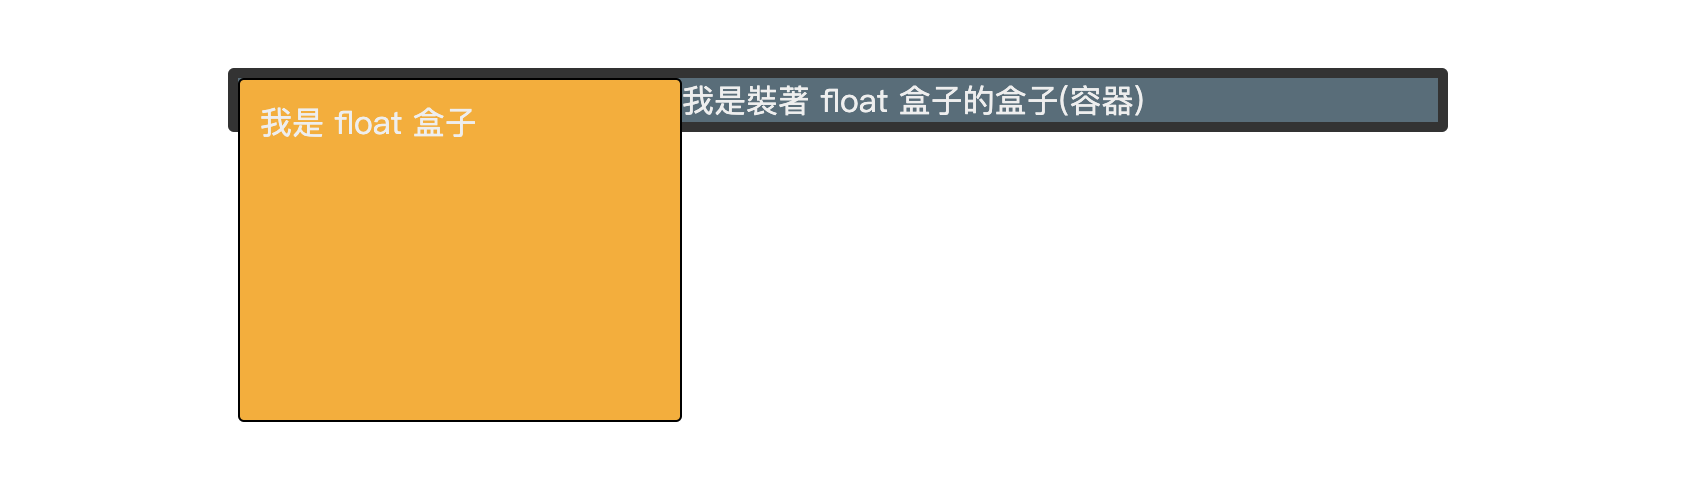
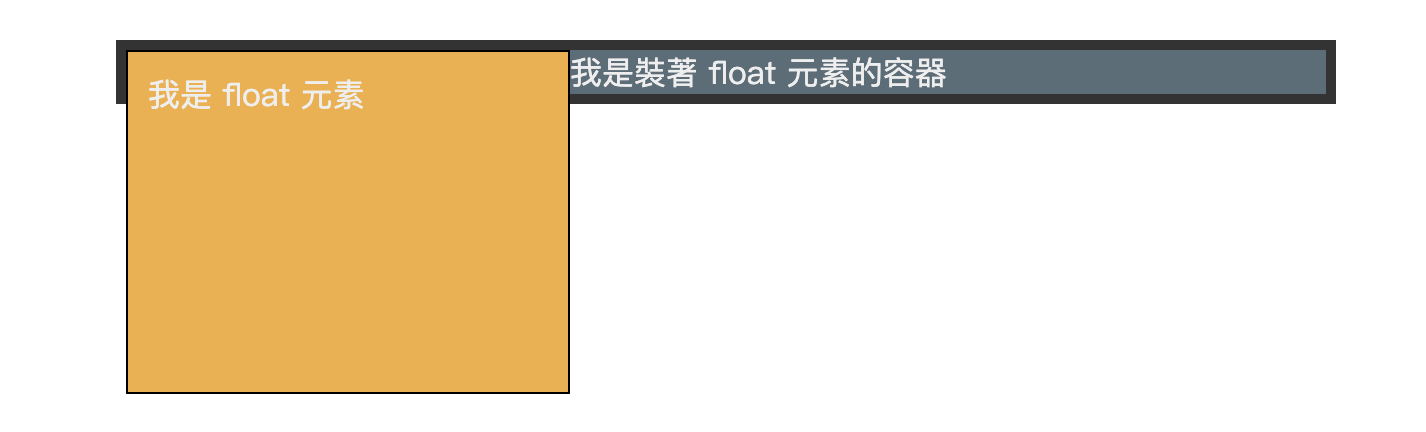
Site updated: 2020-03-15 02:34:12

Changed region(s): [[0.0617, 0.0903, 0.9565, 0.9329]]

diff --git a/article/Block-formatting-context.html b/article/Block-formatting-context.html
@@ -31,7 +31,7 @@
 <meta property="og:description" content="或許你沒聽過 Block Formatting Context，但你肯定有用過！其實在切版時，常常會使用到 BFC，只是你沒有意識到而已，如果能夠有意識的使用 BFC，對於版面的掌控非常有幫助。">
 <meta property="og:image" content="https://i.imgur.com/qmupIlt.png">
 <meta property="article:published_time" content="2020-03-12T08:35:37.000Z">
-<meta property="article:modified_time" content="2020-03-14T18:18:50.433Z">
+<meta property="article:modified_time" content="2020-03-14T18:30:45.793Z">
 <meta property="article:author" content="yachen">
 <meta property="article:tag" content="CSS">
 <meta property="article:tag" content="w3HexSchool">
@@ -170,7 +170,7 @@
                 <span class="level-item has-text-grey">
                     
                     
-                    9 minutes read (About 1309 words)
+                    9 minutes read (About 1307 words)
                 </span>
                 
                 
@@ -259,7 +259,7 @@
 <br>
 <h3 id="解決-float-元素造成外容器塌陷問題"><a class="header-anchor" href="#解決-float-元素造成外容器塌陷問題"></a>解決 float 元素造成外容器塌陷問題</h3>
 <p>float 元素會導致外層容器的高度塌陷(若外層容器高度為 auto 且無其它比 float 元素高的子元素)。</p>
-<figure class="highlight html"><table><tr><td class="gutter"><pre><span class="line">1</span><br><span class="line">2</span><br><span class="line">3</span><br><span class="line">4</span><br></pre></td><td class="code"><pre><span class="line"><span class="tag">&lt;<span class="name">div</span> <span class="attr">class</span>=<span class="string">"container"</span>&gt;</span></span><br><span class="line">    <span class="tag">&lt;<span class="name">span</span>&gt;</span>我是裝著 float 盒子的盒子(容器)<span class="tag">&lt;/<span class="name">span</span>&gt;</span></span><br><span class="line">    <span class="tag">&lt;<span class="name">div</span> <span class="attr">class</span>=<span class="string">"float"</span>&gt;</span>我是 float 盒子<span class="tag">&lt;/<span class="name">div</span>&gt;</span></span><br><span class="line"><span class="tag">&lt;/<span class="name">div</span>&gt;</span></span><br></pre></td></tr></table></figure>
+<figure class="highlight html"><table><tr><td class="gutter"><pre><span class="line">1</span><br><span class="line">2</span><br><span class="line">3</span><br><span class="line">4</span><br></pre></td><td class="code"><pre><span class="line"><span class="tag">&lt;<span class="name">div</span> <span class="attr">class</span>=<span class="string">"container"</span>&gt;</span></span><br><span class="line">    <span class="tag">&lt;<span class="name">span</span>&gt;</span>我是裝著 float 元素的容器<span class="tag">&lt;/<span class="name">span</span>&gt;</span></span><br><span class="line">    <span class="tag">&lt;<span class="name">div</span> <span class="attr">class</span>=<span class="string">"float"</span>&gt;</span>我是 float 元素<span class="tag">&lt;/<span class="name">div</span>&gt;</span></span><br><span class="line"><span class="tag">&lt;/<span class="name">div</span>&gt;</span></span><br></pre></td></tr></table></figure>
 <figure class="highlight css"><table><tr><td class="gutter"><pre><span class="line">1</span><br><span class="line">2</span><br><span class="line">3</span><br><span class="line">4</span><br><span class="line">5</span><br><span class="line">6</span><br><span class="line">7</span><br><span class="line">8</span><br><span class="line">9</span><br><span class="line">10</span><br><span class="line">11</span><br><span class="line">12</span><br><span class="line">13</span><br><span class="line">14</span><br></pre></td><td class="code"><pre><span class="line"><span class="selector-class">.container</span> &#123;</span><br><span class="line">    <span class="attribute">width</span>: <span class="number">600px</span>;</span><br><span class="line">    <span class="attribute">background-color</span>: grey;</span><br><span class="line">    <span class="attribute">border</span>: <span class="number">5px</span> solid <span class="number">#333</span>;</span><br><span class="line">&#125;</span><br><span class="line"></span><br><span class="line"><span class="selector-class">.float</span> &#123;</span><br><span class="line">    <span class="attribute">float</span>: left;</span><br><span class="line">    <span class="attribute">width</span>: <span class="number">200px</span>;</span><br><span class="line">    <span class="attribute">height</span>: <span class="number">150px</span>;</span><br><span class="line">    <span class="attribute">background-color</span>: yellow;</span><br><span class="line">    <span class="attribute">border</span>:<span class="number">1px</span> solid black;</span><br><span class="line">    <span class="attribute">padding</span>: <span class="number">10px</span>;</span><br><span class="line">&#125;</span><br></pre></td></tr></table></figure>
 <p><img src="./Block-formatting-context/float-1.png" alt=""></p>
 <br>

diff --git a/categories/web/index.html b/categories/web/index.html
@@ -176,7 +176,7 @@
                 <span class="level-item has-text-grey">
                     
                     
-                    9 minutes read (About 1309 words)
+                    9 minutes read (About 1307 words)
                 </span>
                 
                 

diff --git a/index.html b/index.html
@@ -165,7 +165,7 @@
                 <span class="level-item has-text-grey">
                     
                     
-                    9 minutes read (About 1309 words)
+                    9 minutes read (About 1307 words)
                 </span>
                 
                 

diff --git a/tags/CSS/index.html b/tags/CSS/index.html
@@ -175,7 +175,7 @@
                 <span class="level-item has-text-grey">
                     
                     
-                    9 minutes read (About 1309 words)
+                    9 minutes read (About 1307 words)
                 </span>
                 
                 

diff --git a/tags/w3HexSchool/index.html b/tags/w3HexSchool/index.html
@@ -175,7 +175,7 @@
                 <span class="level-item has-text-grey">
                     
                     
-                    9 minutes read (About 1309 words)
+                    9 minutes read (About 1307 words)
                 </span>
                 
                 
